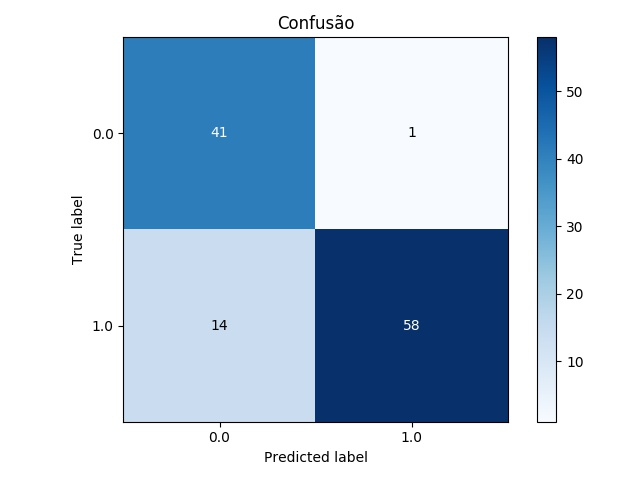
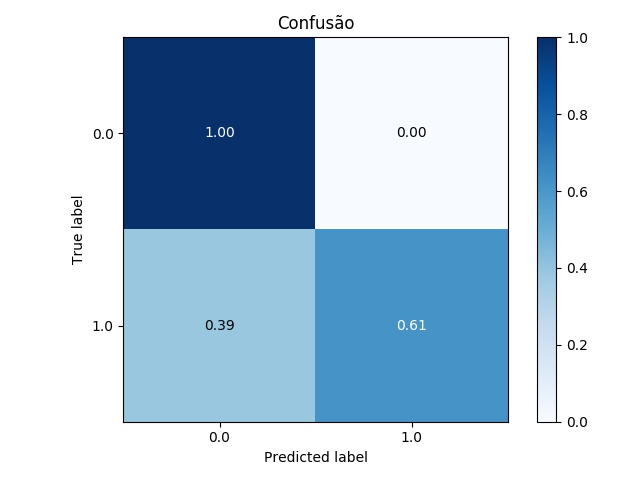
implemented baseline

diff --git a/main.py b/main.py
@@ -9,6 +9,7 @@ from sklearn.metrics import precision_score
 from sklearn.metrics import f1_score
 from sklearn.metrics import confusion_matrix
 from sklearn.utils.multiclass import unique_labels
+import time
 
 import matplotlib.pyplot as plt
 
@@ -143,7 +144,11 @@ def elm_train_eval(n_features, n_classes, X_train, Y_train, X_test, Y_test, mask
 
 # based ont the scikit learn documentation
 # https://scikit-learn.org/stable/auto_examples/model_selection/plot_confusion_matrix.html
-def plot_confusion_matrix(cm, classes, title, normalize=False, filepath=None):
+def plot_confusion_matrix(cm, classes, title, normalize=True, filepath=None):
+
+    if normalize:
+        cm = cm.astype('float') / cm.sum(axis=1)[:, np.newaxis]
+
     fig, ax = plt.subplots()
     im = ax.imshow(cm, interpolation='nearest', cmap=plt.cm.Blues)
     ax.figure.colorbar(im, ax=ax)
@@ -167,6 +172,7 @@ def plot_confusion_matrix(cm, classes, title, normalize=False, filepath=None):
         plt.show()
     else:
         plt.savefig(filepath)
+    plt.close()
 
 
 def save_metrics(filename, metrics):
@@ -190,10 +196,41 @@ def fitness_func_wrapper(fitness_func, n_features, n_classes, X_train, Y_train, 
     return score
 
 
-def main(net, dataset):
+def baseline(net, dataset):
 
-    np.random.seed(SEED)
-    random.seed(SEED)
+    X, Y = data_loader('datasets/{}.npy'.format(dataset))
+    n_features, n_classes = {'breastEW':(30, 2), 'hepatitis':(19, 2), 'multiple_features':(649, 10)}[dataset]
+    X_train, X_test, Y_train, Y_test = train_test_split(X, Y, test_size=0.2, random_state=SEED, stratify=Y)
+    X_train = data_normalizer(X_train) # Yes, should be normalized after the train test split
+    X_test = data_normalizer(X_test)
+    
+    if net == 'NN':
+        net_train_eval = mlp_train_eval
+    elif net == 'ELM':
+        net_train_eval = elm_train_eval
+    else:
+        ValueError('Algorithm {} not implemented.'.format(net))
+        
+    start_time = time.clock()
+    train_accuracy, accuracy, recall, precision, fmeasure, confusion = net_train_eval(n_features, n_classes, X_train, Y_train, X_test, Y_test, mask=None)
+    final_time = time.clock() - start_time
+    
+    # This result may match the 0.9 * (1.0 - train_score) + 0.1 * (n/nclasses) = fbest
+    # If it does not match, it is because of the retraining of the net (net_train_eval) that used a different set of random weights
+    # So, it is not a bug !
+    print("##############################################################################")
+    print("Let's see the training accuracy:", train_accuracy)
+    print("Let's see the accuracy:", accuracy)
+    print("Let's see the recall score:", recall)
+    print("Let's see the precision score:", precision)
+    print("Let's see the f1 score:", fmeasure)
+    print("Let's see the time spent:", final_time)
+    save_metrics('output/{}/baseline_{}.log'.format(dataset, net), [SEED, final_time, accuracy, recall, precision, fmeasure])
+    plot_confusion_matrix(confusion, unique_labels(Y_test), 'Confusão', filepath='output/{}/confusion_matrix/baseline_{}_{}.jpg'.format(dataset, SEED, net))
+    print("##############################################################################")
+
+
+def main(net, dataset):
 
     X, Y = data_loader('datasets/{}.npy'.format(dataset))
     n_features, n_classes = {'breastEW':(30, 2), 'hepatitis':(19, 2), 'multiple_features':(649, 10)}[dataset]
@@ -210,11 +247,10 @@ def main(net, dataset):
 
     fitness_func = partial(fitness_func_wrapper, net_fitness, n_features, n_classes, X_train, Y_train)
     
-    best, fbest = genetic_algorithm(fitness_func=fitness_func, dim=n_features, n_individuals=30)
-
-    # I have added some extra and optinal outputs in the net_train_eval function
-    # It's not elegant but...
+    start_time = time.clock()
+    best, fbest = genetic_algorithm(fitness_func=fitness_func, dim=n_features)
     train_accuracy, accuracy, recall, precision, fmeasure, confusion = net_train_eval(n_features, n_classes, X_train, Y_train, X_test, Y_test, best)
+    final_time = time.clock() - start_time
 
     # This result may match the 0.9 * (1.0 - train_score) + 0.1 * (n/nclasses) = fbest
     # If it does not match, it is because of the retraining of the net (net_train_eval) that used a different set of random weights
@@ -227,15 +263,22 @@ def main(net, dataset):
     print("Let's see the recall score:", recall)
     print("Let's see the precision score:", precision)
     print("Let's see the f1 score:", fmeasure)
-    # I think if the normalized plot is better
-    save_metrics('output/{}/{}_{}.log'.format(dataset, SEED, net), [best.sum(), fbest, accuracy, recall, precision, fmeasure])
+    print("Let's see the time spent:", final_time)
+    save_metrics('output/{}/{}.log'.format(dataset, net), [SEED, final_time, best.sum(), fbest, accuracy, recall, precision, fmeasure])
     plot_confusion_matrix(confusion, unique_labels(Y_test), 'Confusão', filepath='output/{}/confusion_matrix/{}_{}.jpg'.format(dataset, SEED, net))
     print("##############################################################################")
 
 if __name__ == '__main__':
 
-    for SEED in range(10):
+    for SEED in range(20):
         for dataset in ['breastEW', 'hepatitis', 'multiple_features']:
             for net in ['NN', 'ELM']:
+
+                np.random.seed(SEED)
+                random.seed(SEED)
+                
                 print('### Running experiment with net {}, dataset {} and SEED {} ###'.format(net, dataset, SEED))
                 main(net, dataset)
+
+                print('### Running baseline experiment with net {}, dataset {} and SEED {} ###'.format(net, dataset, SEED))
+                baseline(net, dataset)

diff --git a/gen_plots.py b/gen_plots.py
@@ -1,0 +1,108 @@
+import matplotlib.pyplot as plt
+import numpy as np
+from matplotlib.patches import Polygon
+
+random_dists = ['Normal(1,1)', ' Lognormal(1,1)', 'Exp(1)', 'Gumbel(6,4)',
+                'Triangular(2,9,11)']
+N = 500
+
+norm = np.random.normal(1, 1, N)
+logn = np.random.lognormal(1, 1, N)
+expo = np.random.exponential(1, N)
+gumb = np.random.gumbel(6, 4, N)
+tria = np.random.triangular(2, 9, 11, N)
+
+# Generate some random indices that we'll use to resample the original data
+# arrays. For code brevity, just use the same random indices for each array
+bootstrap_indices = np.random.randint(0, N, N)
+data = [
+    norm, norm[bootstrap_indices],
+    logn, logn[bootstrap_indices],
+    expo, expo[bootstrap_indices],
+    gumb, gumb[bootstrap_indices],
+    tria, tria[bootstrap_indices],
+]
+
+fig, ax1 = plt.subplots(figsize=(10, 6))
+fig.canvas.set_window_title('A Boxplot Example')
+fig.subplots_adjust(left=0.075, right=0.95, top=0.9, bottom=0.25)
+
+bp = ax1.boxplot(data, notch=0, sym='+', vert=1, whis=1.5)
+plt.setp(bp['boxes'], color='black')
+plt.setp(bp['whiskers'], color='black')
+plt.setp(bp['fliers'], color='red', marker='+')
+
+# Add a horizontal grid to the plot, but make it very light in color
+# so we can use it for reading data values but not be distracting
+ax1.yaxis.grid(True, linestyle='-', which='major', color='lightgrey',
+               alpha=0.5)
+
+# Hide these grid behind plot objects
+ax1.set_axisbelow(True)
+ax1.set_title('Comparison of IID Bootstrap Resampling Across Five Distributions')
+ax1.set_xlabel('Distribution')
+ax1.set_ylabel('Value')
+
+# Now fill the boxes with desired colors
+box_colors = ['darkkhaki', 'royalblue']
+num_boxes = len(data)
+medians = np.empty(num_boxes)
+for i in range(num_boxes):
+    box = bp['boxes'][i]
+    boxX = []
+    boxY = []
+    for j in range(5):
+        boxX.append(box.get_xdata()[j])
+        boxY.append(box.get_ydata()[j])
+    box_coords = np.column_stack([boxX, boxY])
+    # Alternate between Dark Khaki and Royal Blue
+    ax1.add_patch(Polygon(box_coords, facecolor=box_colors[i % 2]))
+    # Now draw the median lines back over what we just filled in
+    med = bp['medians'][i]
+    medianX = []
+    medianY = []
+    for j in range(2):
+        medianX.append(med.get_xdata()[j])
+        medianY.append(med.get_ydata()[j])
+        ax1.plot(medianX, medianY, 'k')
+    medians[i] = medianY[0]
+    # Finally, overplot the sample averages, with horizontal alignment
+    # in the center of each box
+    ax1.plot(np.average(med.get_xdata()), np.average(data[i]),
+             color='w', marker='*', markeredgecolor='k')
+
+# Set the axes ranges and axes labels
+ax1.set_xlim(0.5, num_boxes + 0.5)
+top = 40
+bottom = -5
+ax1.set_ylim(bottom, top)
+ax1.set_xticklabels(np.repeat(random_dists, 2),
+                    rotation=45, fontsize=8)
+
+# Due to the Y-axis scale being different across samples, it can be
+# hard to compare differences in medians across the samples. Add upper
+# X-axis tick labels with the sample medians to aid in comparison
+# (just use two decimal places of precision)
+pos = np.arange(num_boxes) + 1
+upper_labels = [str(np.round(s, 2)) for s in medians]
+weights = ['bold', 'semibold']
+for tick, label in zip(range(num_boxes), ax1.get_xticklabels()):
+    k = tick % 2
+    ax1.text(pos[tick], .95, upper_labels[tick],
+             transform=ax1.get_xaxis_transform(),
+             horizontalalignment='center', size='x-small',
+             weight=weights[k], color=box_colors[k])
+
+# Finally, add a basic legend
+fig.text(0.80, 0.08, f'{N} Random Numbers',
+         backgroundcolor=box_colors[0], color='black', weight='roman',
+         size='x-small')
+fig.text(0.80, 0.045, 'IID Bootstrap Resample',
+         backgroundcolor=box_colors[1],
+         color='white', weight='roman', size='x-small')
+fig.text(0.80, 0.015, '*', color='white', backgroundcolor='silver',
+         weight='roman', size='medium')
+fig.text(0.815, 0.013, ' Average Value', color='black', weight='roman',
+         size='x-small')
+
+plt.show()

diff --git a/genetic_algorithm_bin.py b/genetic_algorithm_bin.py
@@ -80,7 +80,7 @@ def _crossover(male, female):
     return offspring1, offspring2    
 
 
-def genetic_algorithm(fitness_func, dim, n_individuals=10, epochs=30, crossover_rate=0.9, mutation_rate=0.1):
+def genetic_algorithm(fitness_func, dim, n_individuals=10, epochs=50, crossover_rate=0.9, mutation_rate=0.1):
     
     assert n_individuals % 2 == 0
     
